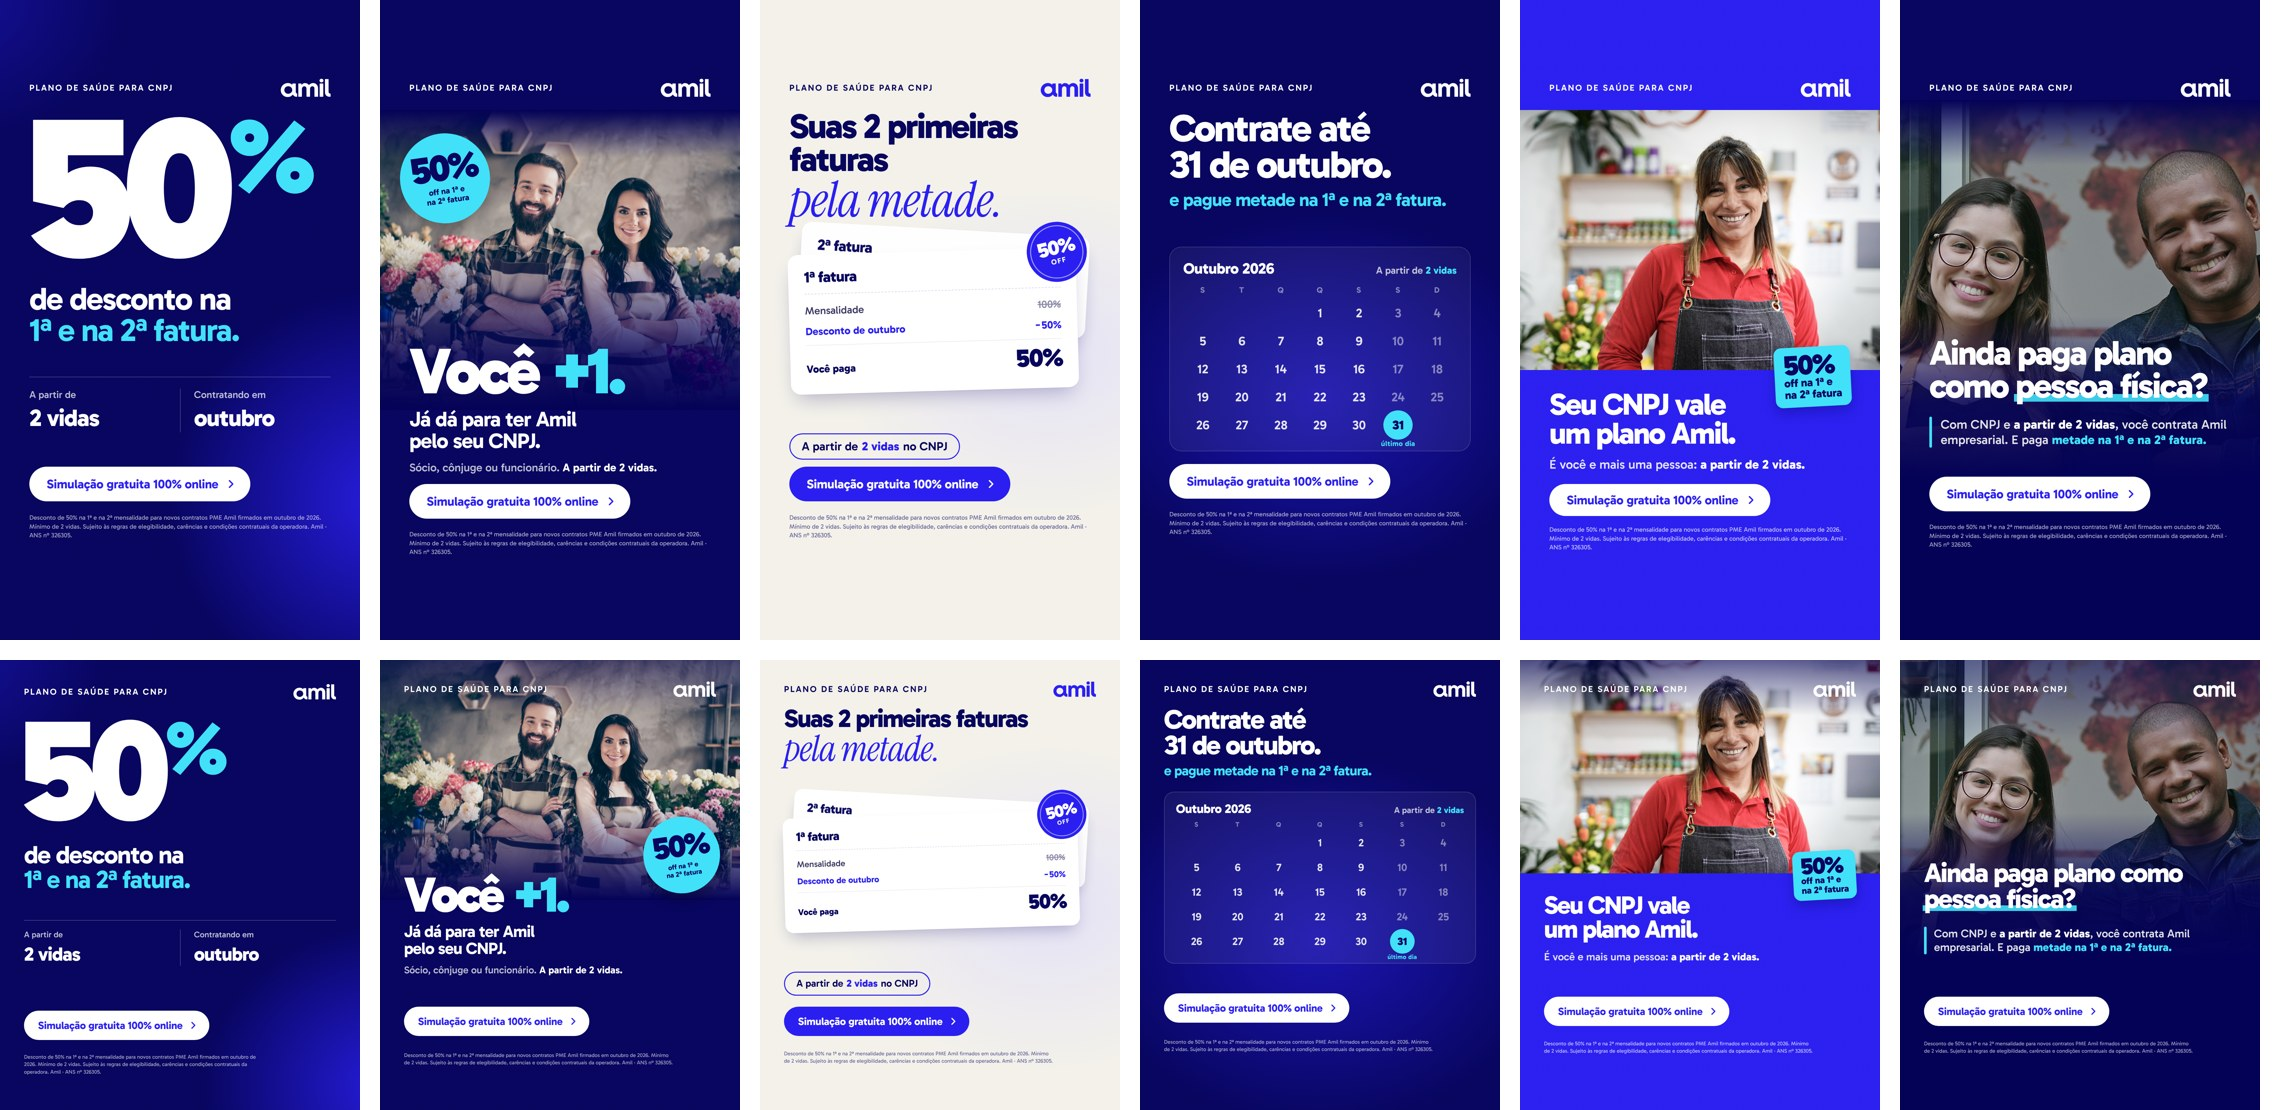
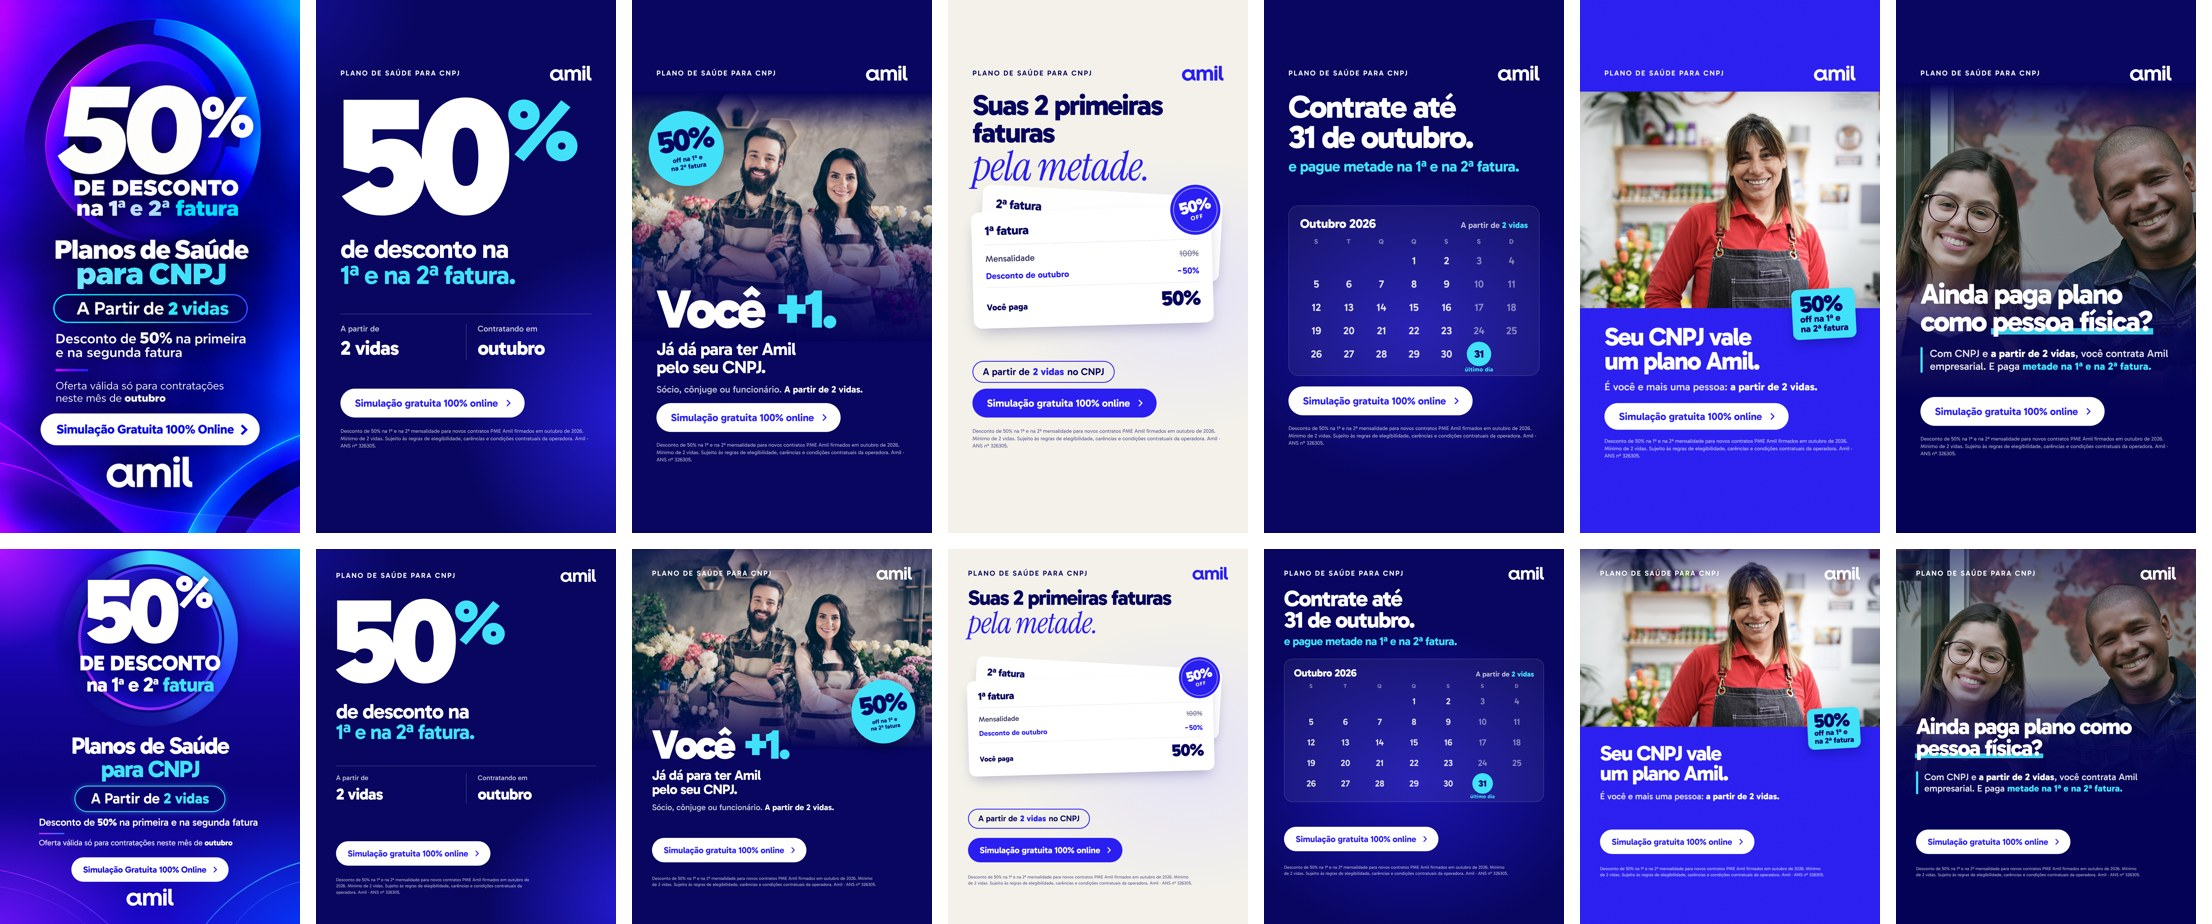
Munhoz Amil 50%: peça original também em Feed 4:5
Claude-Session: https://claude.ai/code/session_015D9Q2MCEyJpi4aETRNZVyG

diff --git a/criativos/munhoz-amil-50/pecas/ads01-original.html b/criativos/munhoz-amil-50/pecas/ads01-original.html
@@ -1,0 +1,71 @@
+<!doctype html>
+<html lang="pt-BR"><head><meta charset="utf-8"><link rel="stylesheet" href="base.css">
+<style>
+  /* Feed da peça original "ADS01 - Amil 50% primeira e segunda parcela" (a Story é o PNG original editado). */
+  .canvas { background:
+      radial-gradient(520px 520px at 0% 0%, rgba(176,20,255,.95), transparent 70%),
+      radial-gradient(560px 520px at 100% 0%, rgba(0,150,255,.9), transparent 70%),
+      radial-gradient(700px 600px at 0% 100%, rgba(120,20,255,.75), transparent 70%),
+      radial-gradient(700px 600px at 100% 100%, rgba(0,60,255,.8), transparent 70%),
+      linear-gradient(180deg, #2a06f0 0%, #12048f 40%, #0b0377 62%, #1a06c8 100%); }
+  .ring { position: absolute; left: 540px; top: 322px; width: 0; height: 0; }
+  .ring > div { position: absolute; border-radius: 50%; transform: translate(-50%, -50%); }
+  .halo { width: 720px; height: 720px; background: radial-gradient(closest-side, #05025a 0%, #08037a 70%, rgba(8,3,122,.0) 100%); }
+  .outer { width: 636px; height: 636px;
+    background: conic-gradient(from 0deg, #3fe0f9 0deg, #2a8dff 70deg, #2a3bff 120deg, rgba(42,31,240,.15) 170deg, rgba(42,31,240,.0) 260deg, rgba(42,31,240,.25) 330deg, #3fe0f9 360deg);
+    -webkit-mask: radial-gradient(closest-side, transparent calc(100% - 52px), #000 calc(100% - 50px), #000 99%, transparent 100%);
+    filter: drop-shadow(0 0 18px rgba(63,224,249,.55)); }
+  .inner { width: 520px; height: 520px;
+    background: conic-gradient(from 200deg, #c02cff, #7a2bff 25%, #3a3bff 50%, #2a6bff 70%, #7a2bff 90%, #c02cff);
+    -webkit-mask: radial-gradient(closest-side, transparent calc(100% - 12px), #000 calc(100% - 11px), #000 99%, transparent 100%);
+    filter: drop-shadow(0 0 14px rgba(170,60,255,.7)); opacity: .95; }
+  .disk { width: 496px; height: 496px; background: radial-gradient(closest-side, #050268 0%, #0b0590 75%, #1a0cc0 100%); }
+  .shine { width: 496px; height: 496px; background: radial-gradient(260px 200px at 30% 25%, rgba(120,90,255,.35), transparent 70%); }
+
+  .hero { position: absolute; left: 0; right: 0; top: 92px; text-align: center; text-shadow: 0 6px 24px rgba(5,2,90,.45); }
+  .hero .pct { font-weight: 900; font-size: 330px; line-height: .8; letter-spacing: -.07em; margin-left: -10px; }
+  .hero .pct sup { font-size: .5em; vertical-align: top; position: relative; top: -.02em; letter-spacing: 0; margin-left: .02em; }
+  .hero .de { font-weight: 900; font-size: 78px; line-height: 1; letter-spacing: -.005em; margin-top: 16px; }
+  .hero .fat { font-weight: 800; font-size: 74px; line-height: 1.02; letter-spacing: -.035em; }
+  .hero .fat em { font-style: normal; color: var(--cyan); }
+  .hero .fat sup, .hero .fat .o { font-size: .55em; vertical-align: top; position: relative; top: .1em; }
+
+  .head { position: absolute; left: 0; right: 0; top: 666px; text-align: center; font-weight: 800; font-size: 86px; line-height: .98; letter-spacing: -.045em; }
+  .head em { font-style: normal; color: var(--cyan); }
+  .pill { position: absolute; left: 50%; top: 852px; transform: translateX(-50%); border: 3px solid var(--cyan); border-radius: 999px;
+          padding: 10px 56px 14px; font-size: 54px; font-weight: 600; letter-spacing: -.01em; white-space: nowrap;
+          background: rgba(5,2,90,.55); box-shadow: 0 0 22px rgba(63,224,249,.35), inset 0 0 18px rgba(63,224,249,.12); }
+  .pill b { color: var(--cyan); font-weight: 800; }
+  .body { position: absolute; left: 140px; right: 120px; top: 962px; font-size: 37px; font-weight: 500; line-height: 1.18; letter-spacing: -.01em; }
+  .body b { font-weight: 800; }
+  .body small { display: block; margin-top: 14px; font-size: 29px; font-weight: 400; color: rgba(255,255,255,.88); }
+  .body small b { color: #fff; }
+  .body i { display: block; width: 92px; height: 5px; margin-top: 16px; border-radius: 3px; background: linear-gradient(90deg, #c02cff, #2a6bff); }
+  .cta { position: absolute; left: 50%; top: 1110px; transform: translateX(-50%); height: 84px; font-size: 36px; padding: 0 40px 0 52px; white-space: nowrap; color: #1a10d8; }
+  .cta svg { width: 30px; height: 30px; }
+  .logo { position: absolute; left: 50%; top: 1222px; width: 170px; transform: translateX(-50%); }
+  .wave { position: absolute; inset: 0; pointer-events: none; }
+</style></head>
+<body><div class="canvas grain">
+  <svg class="wave" viewBox="0 0 1080 1350" fill="none">
+    <path d="M-40 1150 C 160 1180, 300 1260, 420 1380" stroke="url(#wl)" stroke-width="3" opacity=".7"/>
+    <path d="M-40 1210 C 140 1230, 260 1300, 340 1380" stroke="url(#wl)" stroke-width="2" opacity=".45"/>
+    <path d="M1120 1120 C 960 1150, 800 1260, 720 1380" stroke="url(#wr)" stroke-width="4" opacity=".75"/>
+    <path d="M1120 1190 C 990 1210, 880 1290, 830 1380" stroke="url(#wr)" stroke-width="2" opacity=".45"/>
+    <defs>
+      <linearGradient id="wl" x1="0" x2="1"><stop offset="0" stop-color="#c02cff"/><stop offset="1" stop-color="#5a3bff"/></linearGradient>
+      <linearGradient id="wr" x1="1" x2="0"><stop offset="0" stop-color="#3fe0f9"/><stop offset="1" stop-color="#2a6bff"/></linearGradient>
+    </defs>
+  </svg>
+  <div class="ring"><div class="halo"></div><div class="outer"></div><div class="inner"></div><div class="disk"></div><div class="shine"></div></div>
+  <div class="hero">
+    <div class="pct">50<sup>%</sup></div>
+    <div class="de">DE DESCONTO</div>
+    <div class="fat">na 1<span class="o">a</span> e 2<span class="o">a</span> <em>fatura</em></div>
+  </div>
+  <div class="head">Planos de Saúde<br><em>para CNPJ</em></div>
+  <div class="pill">A Partir de <b>2 vidas</b></div>
+  <div class="body">Desconto de <b>50%</b> na primeira e na segunda fatura<i></i><small>Oferta válida só para contratações neste mês de <b>outubro</b></small></div>
+  <span class="cta">Simulação Gratuita 100% Online</span>
+  <span class="logo"></span>
+</div><script src="base.js"></script></body></html>

diff --git a/criativos/munhoz-amil-50/README.md b/criativos/munhoz-amil-50/README.md
@@ -9,7 +9,8 @@ Na Story, nada importante fica acima de y=220 nem abaixo de y=1600.
 
 | Peça | Ângulo | Título |
 |---|---|---|
-| `ADS01 … - 2 vidas.png` | Original | Peça original com "A partir de 2 vidas" |
+| `ADS01 … STORY - 2 vidas.png` | Original | PNG original com "A partir de 2 vidas" |
+| `ADS01 … FEED - 2 vidas.png` | Original | Mesma peça remontada em 4:5 (`pecas/ads01-original.html`) |
 | `v1-metade` | Oferta tipográfica | 50% de desconto na 1ª e na 2ª fatura |
 | `v2-voce-mais-1` | 2 vidas = você + 1 (foto) | Você +1. Já dá para ter Amil pelo seu CNPJ. |
 | `v3-fatura` | A fatura pela metade (fundo claro) | Suas 2 primeiras faturas *pela metade.* |
